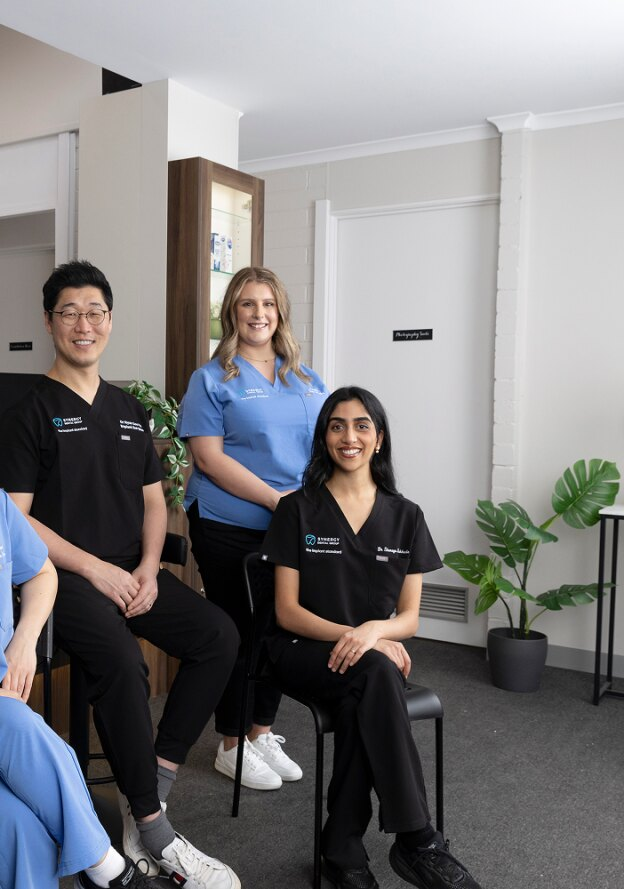
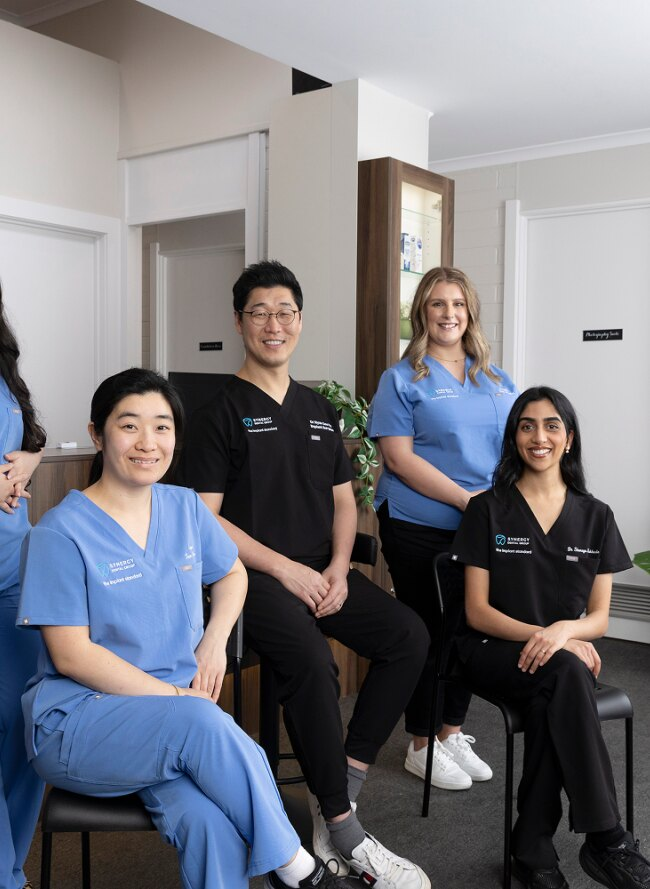
Add files via upload

diff --git a/index.html b/index.html
@@ -125,10 +125,10 @@ function trackConv(label, url){
 
   /* HERO */
   .hero{position:relative;background:var(--navy);padding:72px 0 80px;overflow:hidden;min-height:600px;display:flex;align-items:center}
-  .hero::before{content:"";position:absolute;top:0;bottom:0;right:0;left:50%;background:url("assets/team-hero.jpg") no-repeat 50% 28%/cover;-webkit-mask-image:linear-gradient(90deg,transparent 0,#000 26%);mask-image:linear-gradient(90deg,transparent 0,#000 26%)}
-  .hero::after{content:"";position:absolute;inset:0;background:linear-gradient(90deg,rgba(13,25,48,.5) 0%,rgba(13,25,48,.5) 52%,rgba(13,25,48,.28) 64%,rgba(13,25,48,.08) 100%)}
+  .hero::before{content:"";position:absolute;top:0;bottom:0;right:0;left:41%;background:url("assets/team-hero.jpg") no-repeat 100% 30%/cover;-webkit-mask-image:linear-gradient(90deg,transparent 0,#000 24%);mask-image:linear-gradient(90deg,transparent 0,#000 24%)}
+  .hero::after{content:"";position:absolute;inset:0;background:linear-gradient(90deg,rgba(13,25,48,.55) 0%,rgba(13,25,48,.5) 46%,rgba(13,25,48,.22) 60%,rgba(13,25,48,.06) 100%)}
   .hero .wrap{position:relative;z-index:2;width:100%}
-  .hero-inner{max-width:600px}
+  .hero-inner{max-width:560px}
   .badge{display:inline-flex;align-items:center;gap:9px;background:rgba(255,255,255,.12);border:1px solid rgba(255,255,255,.28);backdrop-filter:blur(6px);border-radius:50px;padding:8px 16px;font-size:12.5px;font-weight:800;color:#fff;margin-bottom:18px}
   .badge .d{width:7px;height:7px;border-radius:50%;background:var(--teal-lt)}
   .hero h1{font-size:clamp(34px,5.4vw,54px);color:#fff;letter-spacing:-.5px}
@@ -148,11 +148,11 @@ function trackConv(label, url){
   .tchip svg{width:15px;height:15px;color:var(--teal-lt);flex:0 0 15px}
   .hero .open-now{background:rgba(255,255,255,.12);border-color:rgba(255,255,255,.3);color:#fff}
   @media(max-width:899px){
-    .hero{padding:300px 0 56px;min-height:0;display:block}
-    .hero::before{left:0;bottom:auto;height:380px;background-position:50% 18%;-webkit-mask-image:linear-gradient(180deg,#000 62%,transparent 100%);mask-image:linear-gradient(180deg,#000 62%,transparent 100%)}
-    .hero::after{background:linear-gradient(180deg,rgba(13,25,48,.12) 0%,rgba(13,25,48,.18) 200px,rgba(13,25,48,.9) 330px,rgba(13,25,48,1) 400px)}
+    .hero{padding:380px 0 56px;min-height:0;display:block}
+    .hero::before{left:0;bottom:auto;height:470px;background-position:50% 0;-webkit-mask-image:linear-gradient(180deg,#000 64%,transparent 100%);mask-image:linear-gradient(180deg,#000 64%,transparent 100%)}
+    .hero::after{background:linear-gradient(180deg,rgba(13,25,48,.12) 0%,rgba(13,25,48,.16) 280px,rgba(13,25,48,.9) 420px,rgba(13,25,48,1) 490px)}
   }
-  @media(max-width:479px){.hero{padding-top:270px}.hero::before{height:340px}.hero::after{background:linear-gradient(180deg,rgba(13,25,48,.12) 0%,rgba(13,25,48,.18) 170px,rgba(13,25,48,.9) 300px,rgba(13,25,48,1) 360px)}}
+  @media(max-width:479px){.hero{padding-top:330px}.hero::before{height:420px}.hero::after{background:linear-gradient(180deg,rgba(13,25,48,.12) 0%,rgba(13,25,48,.16) 240px,rgba(13,25,48,.9) 370px,rgba(13,25,48,1) 440px)}}
   /* logo strip under hero */
   .lstrip{background:#fff;border-bottom:1px solid var(--line);padding:22px 0}
   .lstrip .wrap{display:flex;flex-wrap:wrap;align-items:center;justify-content:center;gap:16px 34px}
